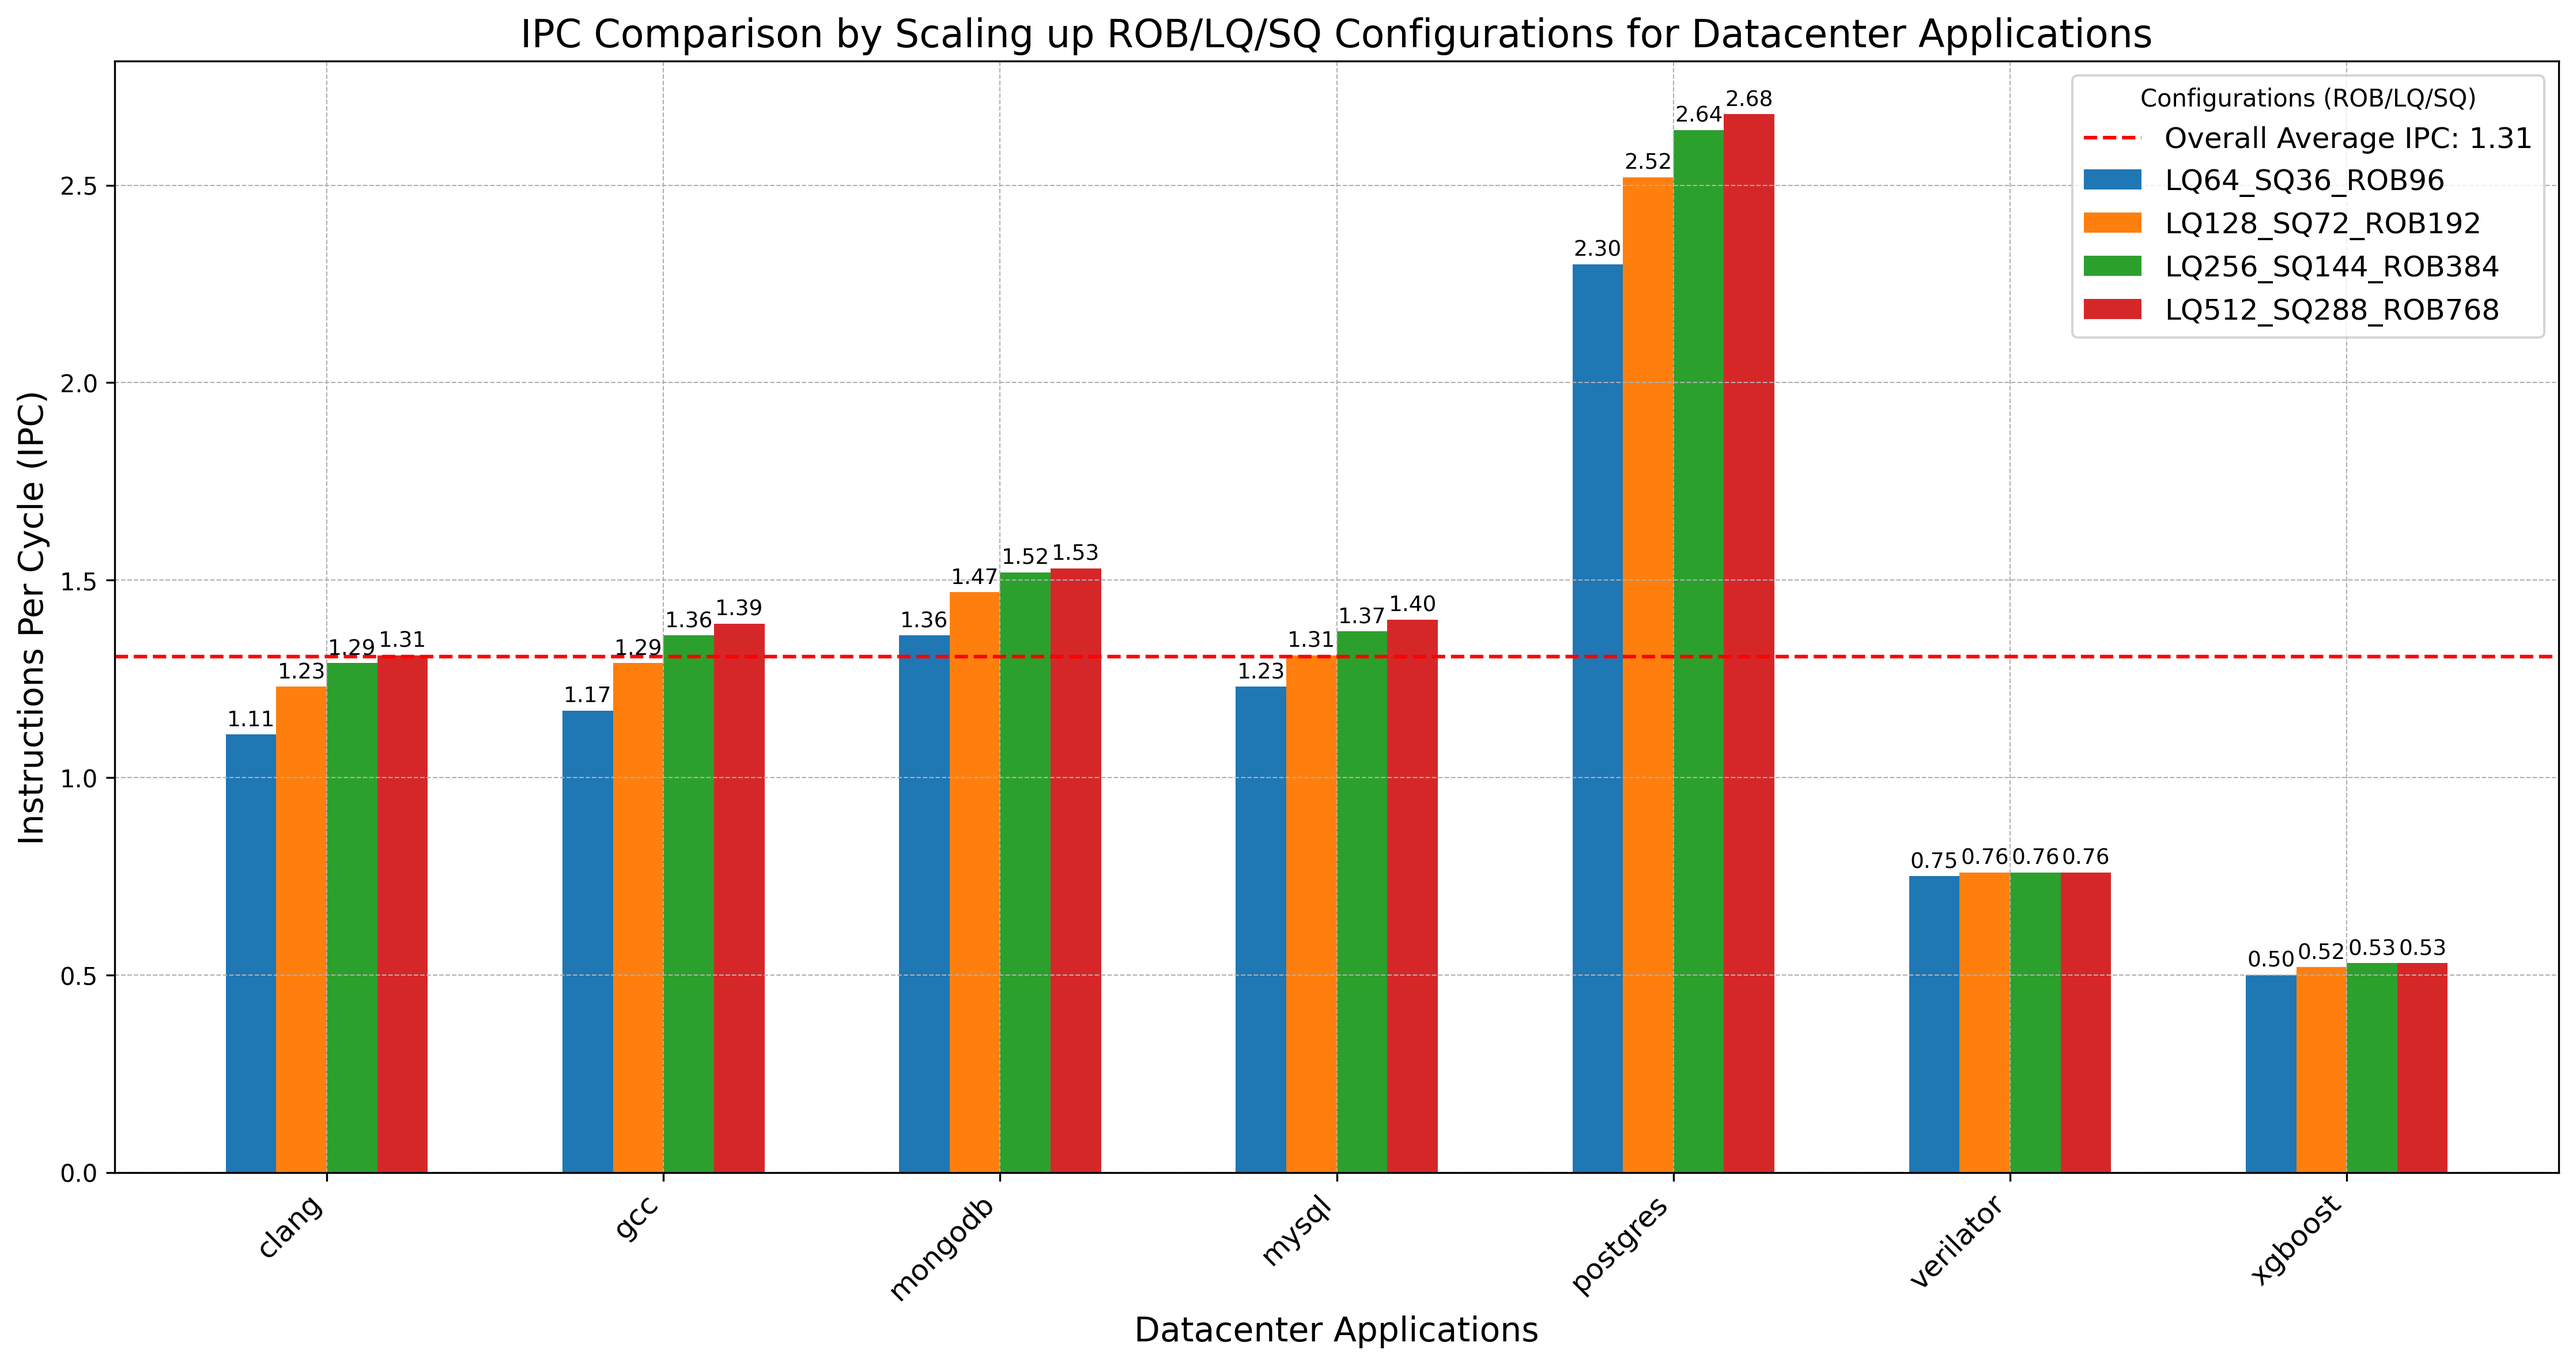
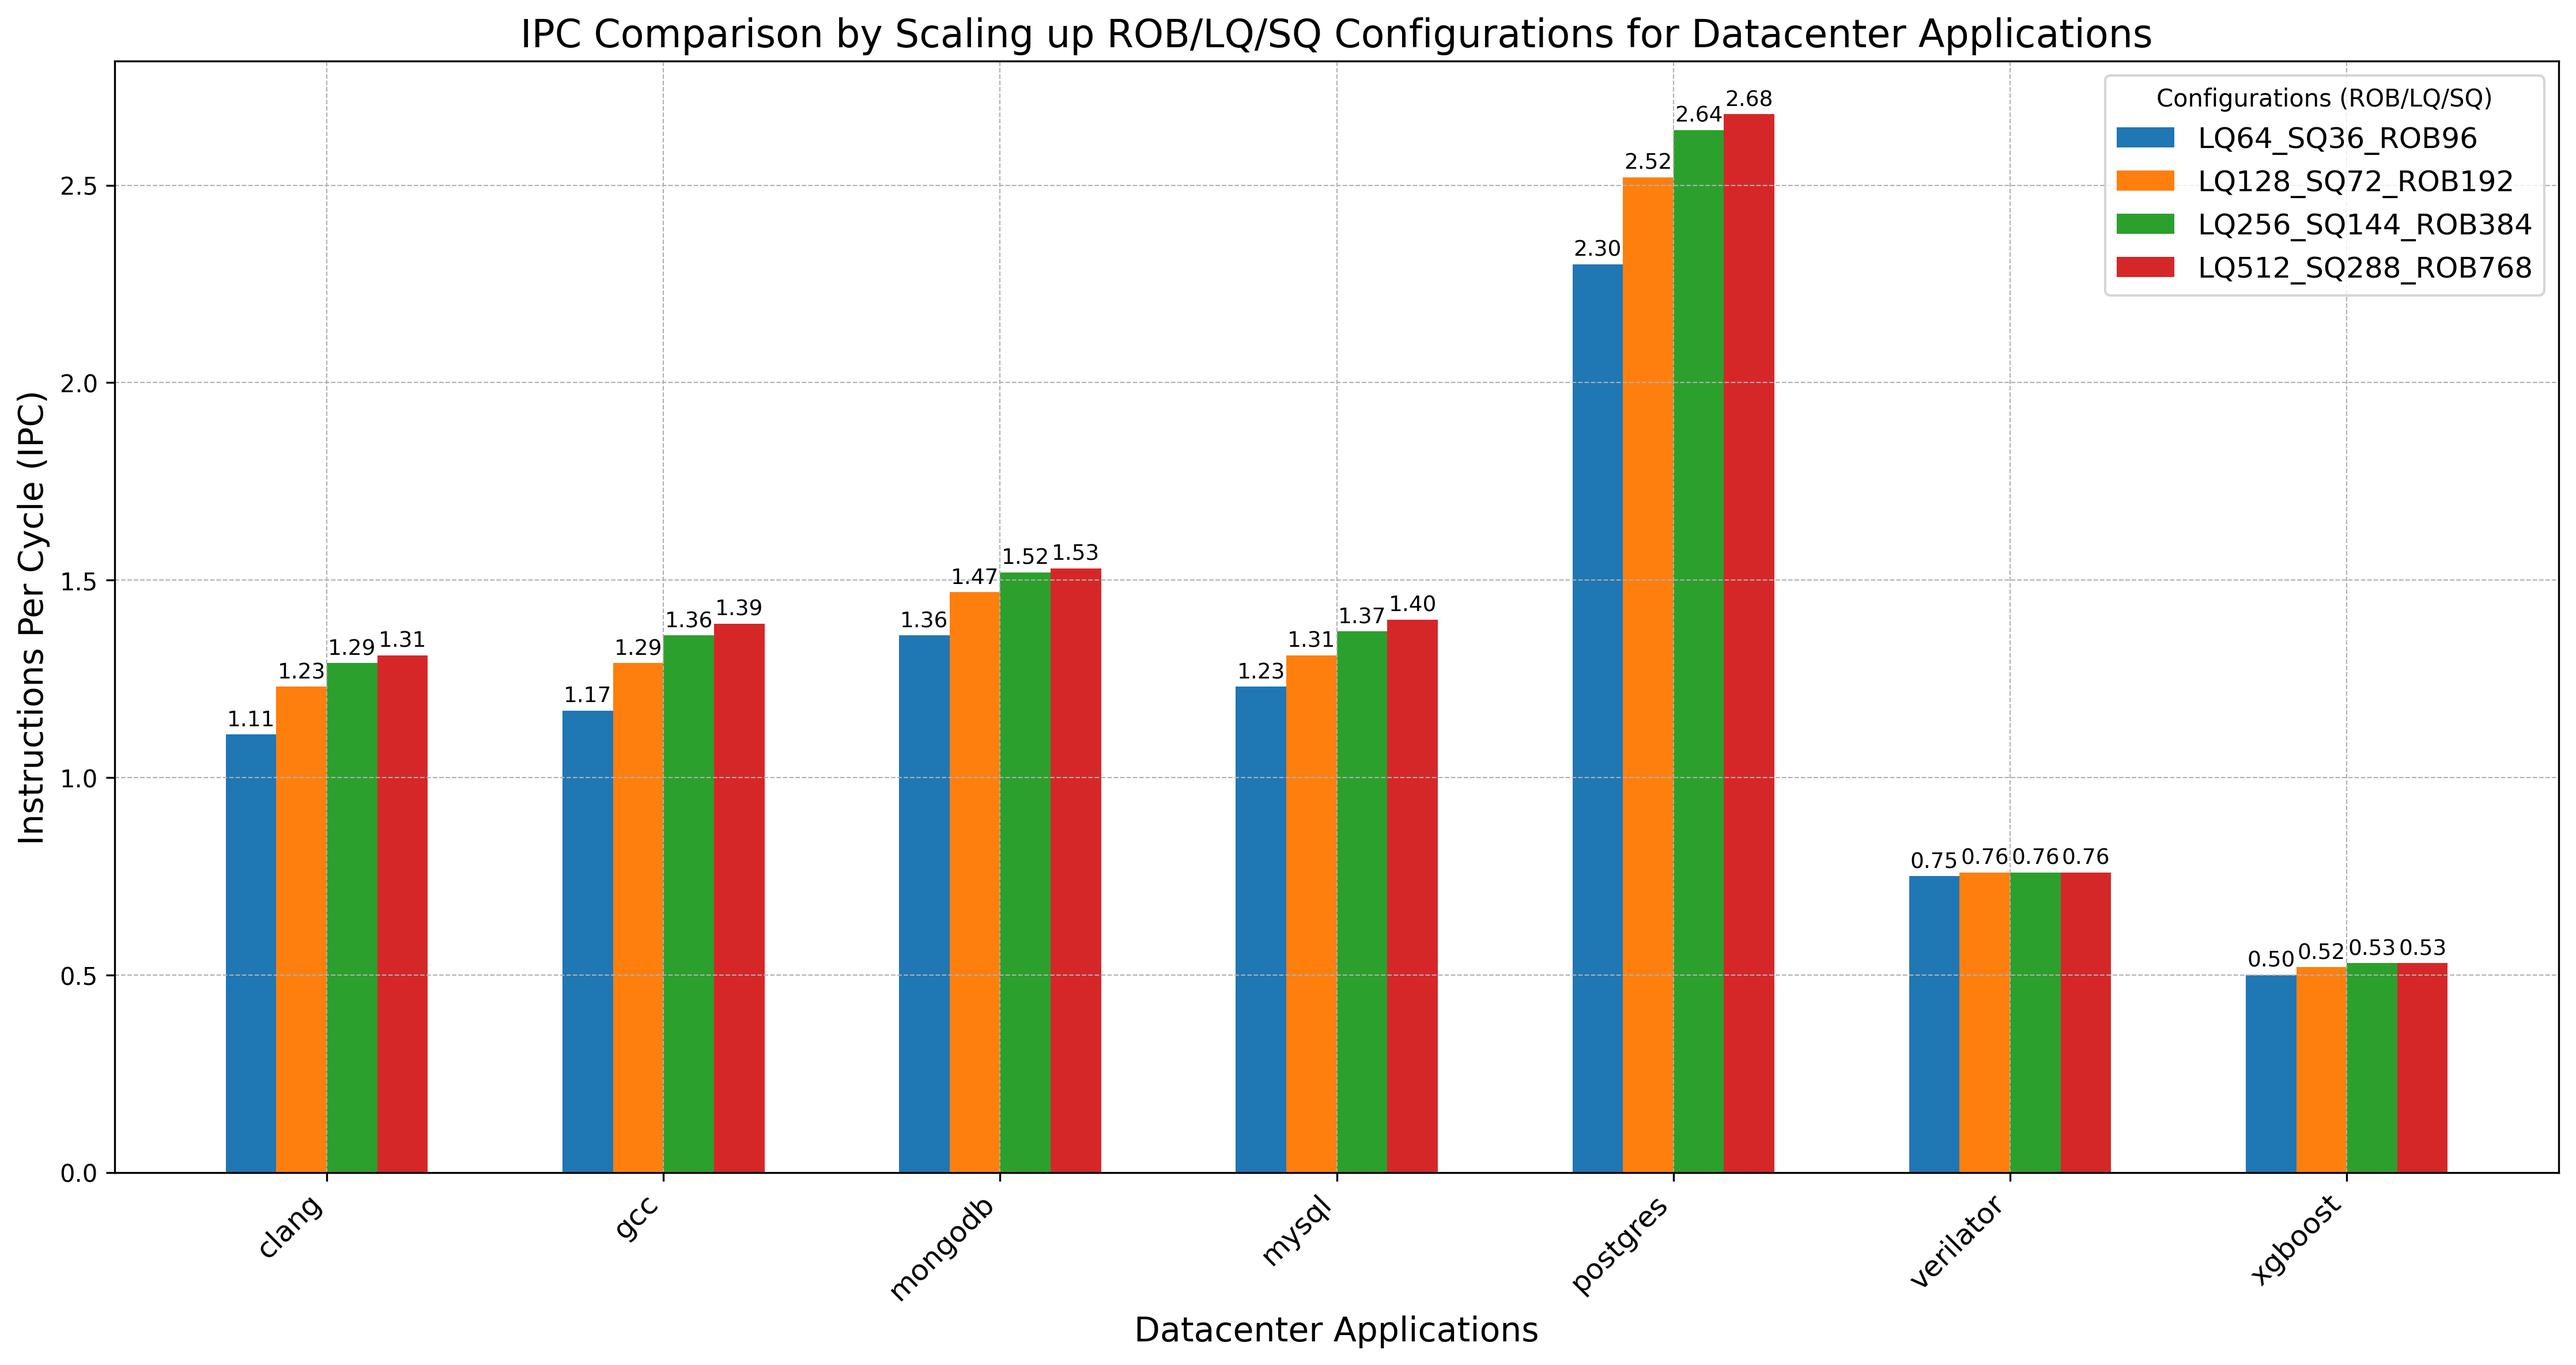
Removed avg

Changed region(s): [[0.8085, 0.0624, 0.9951, 0.2498]]

diff --git a/src/plot_ipc.py b/src/plot_ipc.py
@@ -1,0 +1,82 @@
+import matplotlib.pyplot as plt
+import numpy as np
+import re
+
+# Read and process data
+input_file = "agg_results.txt"
+data = {}
+
+try:
+    with open(input_file, "r") as f:
+        lines = f.readlines()
+except FileNotFoundError:
+    print(f"Error: The file {input_file} does not exist.")
+    exit(1)
+
+# Process the file to extract data
+workload_configs = {}
+all_ipcs = []  # To calculate overall average
+
+for line in lines:
+    parts = line.strip().split()
+    if len(parts) != 5:
+        continue
+    
+    workload, lq_sq_rob, total_insts, total_cycles, ipc = parts
+    ipc = float(ipc)
+    all_ipcs.append(ipc)  # Add to list for overall average
+    
+    match = re.search(r"LQ(\d+)_SQ(\d+)_ROB(\d+)", lq_sq_rob)
+    if not match:
+        print(f"Skipping invalid LQ_SQ_ROB format: {lq_sq_rob}")
+        continue
+    
+    lq, sq, rob = map(int, match.groups())
+    
+    config_key = f'LQ{lq}_SQ{sq}_ROB{rob}'
+    
+    if workload not in workload_configs:
+        workload_configs[workload] = {}
+    
+    workload_configs[workload][config_key] = ipc
+
+# Get unique configurations across all workloads and sort them
+all_configs = sorted(list(set(sum([list(w.keys()) for w in workload_configs.values()], []))), key=lambda x: tuple(map(int, re.findall(r'\d+', x))))
+workloads = sorted(list(workload_configs.keys()))
+
+# Create figure for grouped bar chart
+fig, ax = plt.subplots(figsize=(15, 8))
+
+# Define bar width and positions
+bar_width = 0.15
+indices = np.arange(len(workloads))
+
+# Plot data for each configuration
+for i, config in enumerate(all_configs):
+    ipcs = [workload_configs[workload].get(config, 0) for workload in workloads]
+    bar_positions = indices + i * bar_width
+    ax.bar(bar_positions, ipcs, bar_width, label=config)
+    
+    # Add IPC value above the bar
+    for j, ipc in enumerate(ipcs):
+        ax.text(bar_positions[j], ipc + 0.01, f'{ipc:.2f}', ha='center', va='bottom', fontsize=9)
+
+# Set labels and title
+ax.set_xlabel('Datacenter Applications', fontsize=14)
+ax.set_ylabel('Instructions Per Cycle (IPC)', fontsize=14)
+ax.set_title('IPC Comparison by Scaling up ROB/LQ/SQ Configurations for Datacenter Applications', fontsize=16)
+ax.set_xticks(indices + bar_width * (len(all_configs) - 1) / 2)
+ax.set_xticklabels(workloads, rotation=45, ha='right', fontsize=12)
+ax.legend(title="Configurations (ROB/LQ/SQ)", fontsize=12)
+
+# Add grid for better readability
+ax.grid(True, which='both', linestyle='--', linewidth=0.5)
+
+# Adjust layout to prevent label cutoff
+plt.tight_layout()
+
+# Save and show the plot
+plt.savefig('ipc_comparison_grouped.png', dpi=300, bbox_inches='tight')
+plt.show()
+
+print("IPC comparison plot saved as ipc_comparison_grouped.png")
